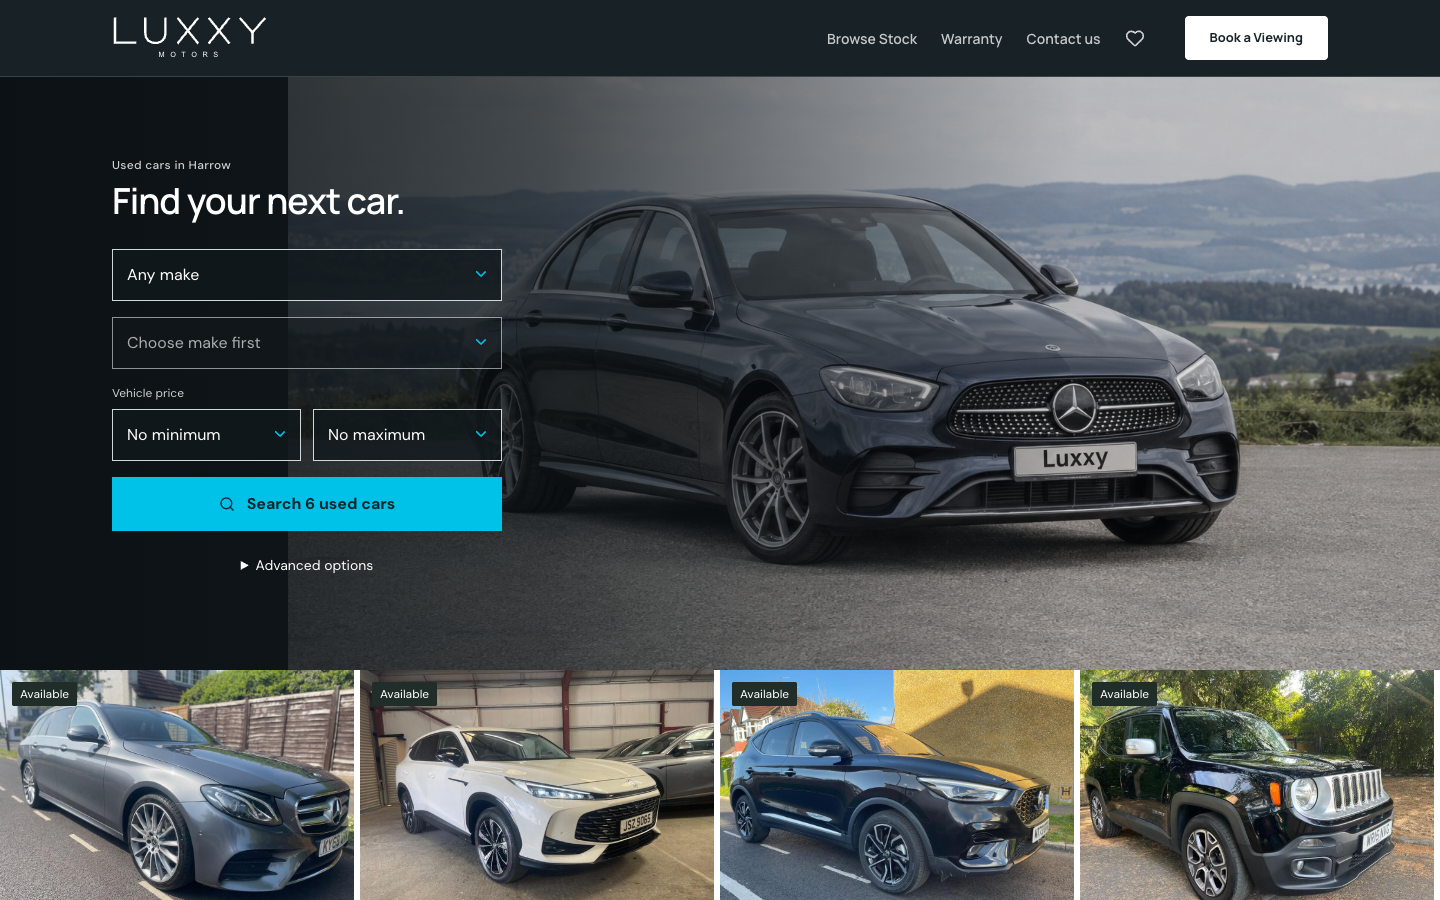
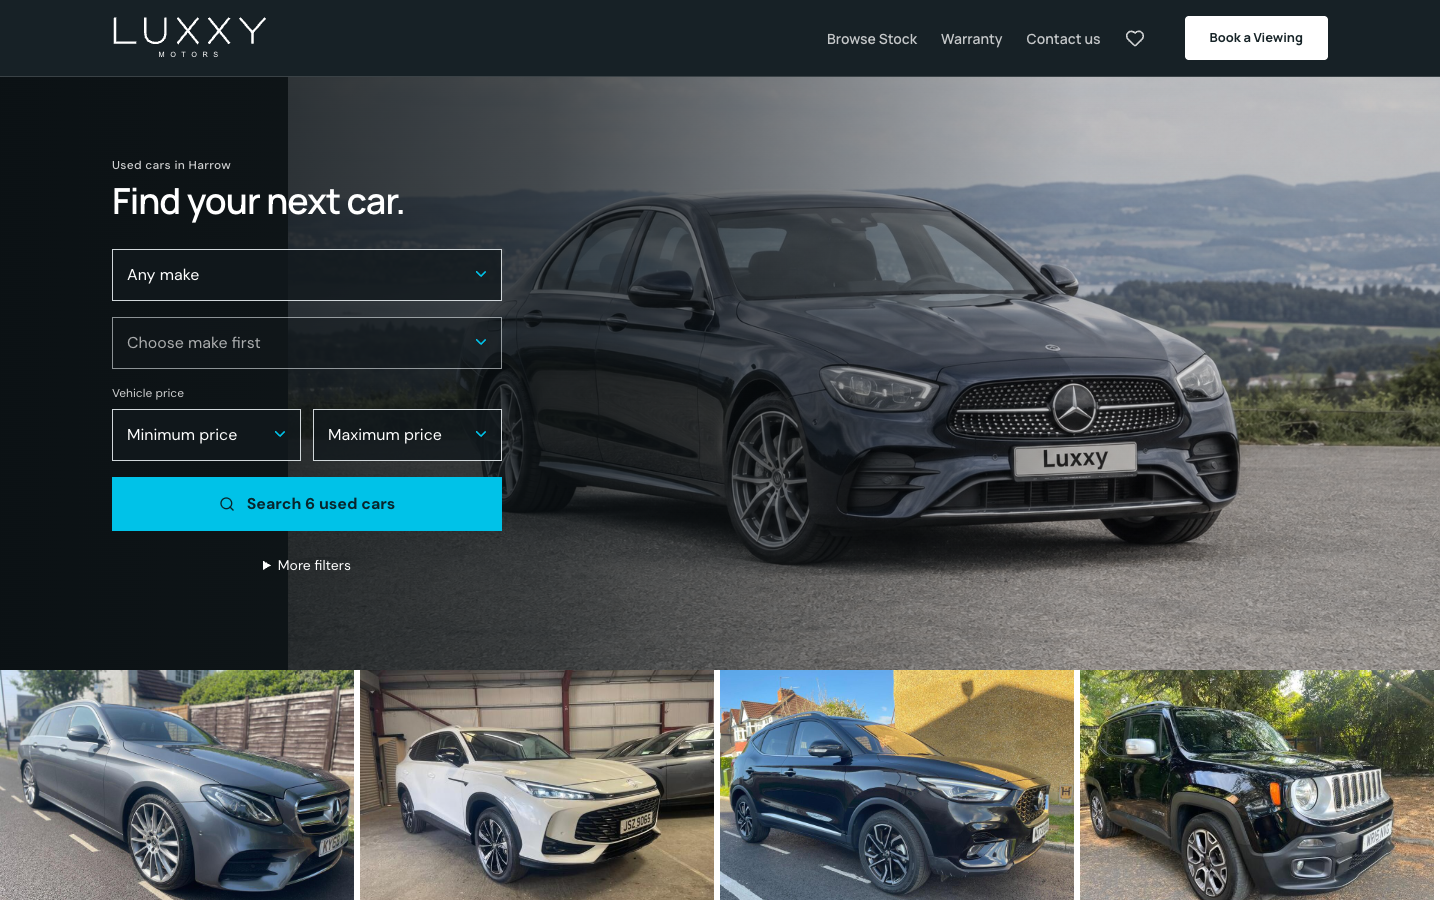
Refine homepage search, featured cars and dealership visit

diff --git a/artifacts/luxxy-motors/src/components/hero-stock-search.tsx b/artifacts/luxxy-motors/src/components/hero-stock-search.tsx
@@ -1,3 +1,4 @@
+import { useEffect, useState } from 'react';
 import type { Dispatch, SetStateAction } from 'react';
 import { Search, ChevronDown } from 'lucide-react';
 import type { Car } from '@/lib/stock-context';
@@ -8,14 +9,23 @@ export function HeroStockSearch({ cars, filters, setFilters, onSearch, count }: 
   cars: Car[]; filters: FilterState; setFilters: Dispatch<SetStateAction<FilterState>>;
   onSearch: () => void; count: number;
 }) {
+  const [mobile, setMobile] = useState(() => window.matchMedia?.('(max-width: 639px)').matches ?? false);
+  useEffect(() => {
+    const media = window.matchMedia?.('(max-width: 639px)');
+    if (!media) return;
+    const update = () => setMobile(media.matches);
+    update(); media.addEventListener?.('change', update);
+    return () => media.removeEventListener?.('change', update);
+  }, []);
   const options = (key: 'make' | 'model' | 'fuel' | 'transmission') => Array.from(new Set(cars.filter(car => key !== 'model' || !filters.make || car.make === filters.make).map(car => car[key]).filter((value): value is string => Boolean(value)))).sort();
   const budgets = [1000, 2500, 5000, 7500, 10000, 12500, 15000, 20000, 25000, 30000, 40000, 50000, 75000, 100000, 150000, 250000, 500000];
   const update = (key: keyof FilterState, value: string) => setFilters(current => ({ ...current, [key]: value, ...(key === 'make' ? { model: '' } : {}), ...(key === 'minPrice' && value && current.maxPrice && +value > +current.maxPrice ? { maxPrice: '' } : {}), ...(key === 'maxPrice' && value && current.minPrice && +value < +current.minPrice ? { minPrice: '' } : {}) }));
   const select = (key: 'make' | 'model' | 'fuel' | 'transmission', label: string) => <label className="hero-search-field"><span className="sr-only">Search {label.toLowerCase()}</span><select aria-label={`Search ${label.toLowerCase()}`} value={filters[key]} onChange={event => update(key, event.target.value)} disabled={key === 'model' && !filters.make}><option value="">{key === 'model' && !filters.make ? 'Choose make first' : `Any ${label.toLowerCase()}`}</option>{options(key).map(value => <option key={value} value={value}>{value}</option>)}</select><ChevronDown aria-hidden="true" /></label>;
+  const budget = (key: 'minPrice' | 'maxPrice') => <label key={key} className="hero-search-field"><span className="sr-only">{key === 'minPrice' ? 'Search minimum price' : 'Search maximum price'}</span><select aria-label={key === 'minPrice' ? 'Search minimum price' : 'Search maximum price'} value={filters[key]} onChange={event => update(key, event.target.value)}><option value="">{key === 'minPrice' ? 'Minimum price' : 'Maximum price'}</option>{Array.from(new Set([...budgets, ...(filters[key] ? [+filters[key]] : [])])).sort((a,b) => a-b).map(price => <option key={price} value={price}>{formatPrice(price)}</option>)}</select><ChevronDown aria-hidden="true" /></label>;
   return <form className="hero-stock-search" aria-label="Search used cars" onSubmit={event => { event.preventDefault(); onSearch(); }}>
-    {select('make', 'Make')}{select('model', 'Model')}
-    <fieldset><legend className="mb-2 text-xs text-white/80">Vehicle price</legend><div className="grid grid-cols-2 gap-3">{(['minPrice', 'maxPrice'] as const).map(key => <label key={key} className="hero-search-field"><span className="sr-only">{key === 'minPrice' ? 'Search minimum price' : 'Search maximum price'}</span><select aria-label={key === 'minPrice' ? 'Search minimum price' : 'Search maximum price'} value={filters[key]} onChange={event => update(key, event.target.value)}><option value="">{key === 'minPrice' ? 'No minimum' : 'No maximum'}</option>{Array.from(new Set([...budgets, ...(filters[key] ? [+filters[key]] : [])])).sort((a,b) => a-b).map(price => <option key={price} value={price}>{formatPrice(price)}</option>)}</select><ChevronDown aria-hidden="true" /></label>)}</div></fieldset>
+    {select('make', 'Make')}{!mobile && select('model', 'Model')}
+    {mobile ? budget('maxPrice') : <fieldset><legend className="mb-2 text-xs text-white/80">Vehicle price</legend><div className="grid grid-cols-2 gap-3">{budget('minPrice')}{budget('maxPrice')}</div></fieldset>}
     <button type="submit" className="hero-search-submit"><Search aria-hidden="true" className="h-4 w-4" />Search {count} used {count === 1 ? 'car' : 'cars'}</button>
-    <details className="hero-search-advanced"><summary>Advanced options</summary><div className="mt-3 grid gap-3">{select('fuel', 'Fuel')}{select('transmission', 'Transmission')}</div></details>
+    <details className="hero-search-advanced"><summary>More filters</summary><div className="mt-3 grid gap-3">{mobile && <>{select('model', 'Model')}{budget('minPrice')}</>}{select('fuel', 'Fuel')}{select('transmission', 'Transmission')}</div></details>
   </form>;
 }

diff --git a/artifacts/luxxy-motors/src/pages/home.tsx b/artifacts/luxxy-motors/src/pages/home.tsx
@@ -4,8 +4,6 @@ import { HeroStockSearch } from '@/components/hero-stock-search';
 import { RecentlyViewed } from '@/components/recently-viewed';
 import { DealershipVisit } from "@/components/dealership-visit";
 import { ShowroomPhoto } from "@/components/showroom-photo";
-import { DealershipPhotograph } from '@/components/dealership-photograph';
-import { dealershipPhotography } from '@/lib/dealership-photography';
 import luxxyHeroImage from "@/assets/luxxy-hero.jpg";
 import {
   readBrowseSession,
@@ -277,8 +275,6 @@ export default function Home({ browseStock = false }: { browseStock?: boolean })
       : vehicleDisplayTitle(heroFallbackCar);
 
   const heroPhotoSource = heroImage || getThumbnailUrl(heroFallbackCar);
-  const introductionPhoto = dealershipPhotography(dealerConfig).introduction;
-  const introductionImage = introductionPhoto?.src || heroPhotoSource;
 
   const dealershipPoints = dealerConfig.whyBuy?.length ? (
     <ul className="divide-y divide-border border-y border-border">
@@ -308,7 +304,7 @@ export default function Home({ browseStock = false }: { browseStock?: boolean })
     );
 
   return (
-    <div className="luxxy-shell min-h-screen">
+    <div className={browseStock ? "luxxy-shell min-h-screen" : "luxxy-shell homepage-refined min-h-screen"}>
       {!browseStock && <section className="stock-search-hero" aria-labelledby="home-heading">
         {heroPhotoSource && <div className="stock-search-backdrop" data-testid="showroom-hero-photo"><ShowroomPhoto src={heroPhotoSource} alt={heroAlt} priority fit="cover" className="h-full" /></div>}
         <div className="stock-search-shade" aria-hidden="true" />
@@ -534,41 +530,7 @@ export default function Home({ browseStock = false }: { browseStock?: boolean })
         </section>
       )}
 
-      {(dealerConfig.presentation?.showroomImageUrl || dealerConfig.whyBuy?.length > 0 || dealerConfig.trustItems?.length > 0) && (
-        <section
-          id="about"
-          data-home-section
-          aria-labelledby="about-heading"
-          className="section-space border-t border-border bg-card"
-        >
-          <div className={cn("container mx-auto grid gap-6 px-4 sm:px-6 lg:gap-x-12 lg:px-8", introductionImage ? "lg:grid-cols-[1.1fr_1fr]" : "lg:grid-cols-2")}>
-            <div className={introductionImage ? "lg:col-start-2" : undefined}>
-              <p className="luxxy-kicker mb-3">Why {dealerConfig.identity.name}</p>
-              <h2 id="about-heading" tabIndex={-1} className="heading-2">Come and see for yourself.</h2>
-              <p className="mt-3 max-w-md text-sm leading-relaxed text-muted-foreground">
-                {dealerConfig.address?.city ? `Visit us in ${dealerConfig.address.city}` : "Visit the showroom"}
-                {" to see the car and talk through the details."}
-              </p>
-            </div>
-            {introductionPhoto ? (
-              <DealershipPhotograph photo={introductionPhoto} className="lg:col-start-1 lg:row-start-1 lg:row-span-2 lg:self-center" />
-            ) : introductionImage && (
-              <ShowroomPhoto
-                src={introductionImage}
-                alt={heroAlt}
-                fit="contain"
-                className="aspect-[3/2] lg:col-start-1 lg:row-start-1 lg:row-span-2 lg:self-center"
-              />
-            )}
-            <div className={introductionImage ? "lg:col-start-2" : undefined}>
-              {dealershipPoints}
-              <Link href="/enquire?type=viewing" className="text-link mt-4 min-h-11">
-                Arrange a viewing <ArrowRight className="h-4 w-4" />
-              </Link>
-            </div>
-          </div>
-        </section>
-      )}
+      <DealershipVisit>{dealershipPoints}</DealershipVisit>
 
       <section className="section-space border-t border-border bg-secondary/40">
         <div className="container mx-auto px-4 sm:px-6 lg:px-8">
@@ -600,7 +562,7 @@ export default function Home({ browseStock = false }: { browseStock?: boolean })
                       tabIndex={-1}
                       className="font-display text-xl font-semibold leading-snug"
                     >
-                      {service.title}
+                      {id === 'part-exchange' ? 'Part exchange' : id === 'delivery' ? 'Delivery' : 'Warranty'}
                     </h3>
                     <p className="mt-3 flex-1 text-sm leading-relaxed text-muted-foreground">
                       {service.description}
@@ -619,7 +581,7 @@ export default function Home({ browseStock = false }: { browseStock?: boolean })
           </div>
         </div>
       </section>
-      <DealershipVisit />
+
       </>}
       <RecentlyViewed />
     </div>

diff --git a/artifacts/luxxy-motors/src/pages/home.test.tsx b/artifacts/luxxy-motors/src/pages/home.test.tsx
@@ -268,8 +268,8 @@ describe('showroom search filters', () => {
     expect(hero.textContent).toBe('');
     expect(hero).not.toHaveTextContent('£');
     expect(within(hero).getByRole('img')).toHaveAttribute('alt', expect.stringContaining('Illustrative Luxxy brand image'));
-    const introduction = screen.getByRole('region', { name: 'Come and see for yourself.' });
-    expect(within(introduction).getByRole('img')).toHaveAttribute('src', expect.stringContaining('luxxy-showroom.jpg'));
+    const introduction = screen.getByRole('region', { name: 'Plan your visit' });
+    expect(within(introduction).getByRole('img')).toHaveAttribute('src', expect.stringContaining('luxxy-forecourt.jpg'));
     expect(within(introduction).getByRole('img')).toHaveAttribute('alt', expect.stringContaining('Illustrative Luxxy Motors showroom'));
   });
 
@@ -279,7 +279,7 @@ describe('showroom search filters', () => {
     expect(hero).not.toHaveTextContent('BMW 1 Series');
     expect(hero).not.toHaveTextContent('£');
     expect(within(hero).getByRole('img')).toHaveAttribute('src', 'https://cdn.example.com/bmw-1.jpg');
-    expect(within(screen.getByRole('region', { name: 'Come and see for yourself.' })).getByRole('img')).toHaveAttribute('src', 'https://cdn.example.com/bmw-1.jpg');
+    expect(within(screen.getByRole('region', { name: 'Plan your visit' })).queryByRole('img')).not.toBeInTheDocument();
   });
 
   it('keeps the bundled Luxxy artwork independent of featured stock', () => {
@@ -315,7 +315,7 @@ describe('showroom search filters', () => {
       },
     };
     renderHome(false);
-    const introduction = screen.getByRole('region', { name: 'Come and see for yourself.' });
+    const introduction = screen.getByRole('region', { name: 'Plan your visit' });
     expect(within(introduction).getByRole('img')).toHaveAttribute('src', 'https://example.com/team.jpg');
     expect(within(introduction).getByRole('img')).toHaveAttribute('alt', 'Our team outside the dealership');
     expect(within(introduction).getByRole('heading', { name: 'How we work' })).toBeInTheDocument();
@@ -379,7 +379,7 @@ describe('showroom search filters', () => {
   it('keeps the homepage carousel separate from stock filters', () => {
     renderHome(false);
     expect(screen.getByRole('heading', { name: /Find your next car/i })).toBeInTheDocument();
-    expect(screen.getByRole('heading', { name: 'Latest arrivals' })).toBeInTheDocument();
+    expect(screen.getByRole('heading', { name: 'Featured cars' })).toBeInTheDocument();
     expect(screen.queryByTestId('input-showroom-search')).not.toBeInTheDocument();
     expect(screen.getByRole('link', { name: 'Browse Stock' })).toHaveAttribute('href', '/stock');
     fireEvent.click(screen.getByRole('button', { name: 'Pause cars' }));

diff --git a/artifacts/luxxy-motors/src/components/dealership-visit.tsx b/artifacts/luxxy-motors/src/components/dealership-visit.tsx
@@ -7,13 +7,14 @@ import { ShowroomPhoto } from "./showroom-photo";
 import { DealershipPhotograph } from './dealership-photograph';
 import { dealershipPhotography } from '@/lib/dealership-photography';
 
-export function DealershipVisit() {
+export function DealershipVisit({ children }: { children?: React.ReactNode }) {
   const { settings } = useDealerSettings();
   const { address, contact, hours, presentation: content = {} } = settings;
-  const visitPhoto = dealershipPhotography(settings).visit;
+  const photography = dealershipPhotography(settings);
+  const visitPhoto = photography.visit || photography.introduction;
+  const hasTeam = Boolean(content.teamImageUrl && content.teamIntroduction?.trim() && !/^sample|tell customers|replace this/i.test(content.teamIntroduction.trim()));
   const hasStory = Boolean(
-    content.teamImageUrl ||
-    content.teamIntroduction ||
+    hasTeam ||
     content.reviewsUrl,
   );
   const addressLines = [
@@ -28,12 +29,12 @@ export function DealershipVisit() {
       className="border-t border-border bg-card py-8 md:py-10"
       aria-labelledby="visit-heading"
     >
-      <div className="container mx-auto px-4 sm:px-6 lg:px-8">
+      <div id="about" className="container mx-auto px-4 sm:px-6 lg:px-8">
         <div
-          className={`grid items-start gap-6 lg:gap-10 ${content.teamImageUrl || visitPhoto ? "lg:grid-cols-2" : "max-w-4xl"}`}
+          className={`grid items-start gap-6 lg:gap-10 ${hasStory || visitPhoto || children ? "lg:grid-cols-2" : "max-w-4xl"}`}
         >
           <div>
-            <h2 id="visit-heading" className="section-heading">
+            <h2 id="visit-heading" tabIndex={-1} className="section-heading">
               Plan your visit
             </h2>
             <p className="mt-4 max-w-lg whitespace-pre-line text-sm leading-7 text-muted-foreground">
@@ -107,10 +108,11 @@ export function DealershipVisit() {
               )}
             </div>
           </div>
-          {(hasStory || visitPhoto) && (
-            <div className={content.teamImageUrl || visitPhoto ? "space-y-6" : "grid gap-6 sm:grid-cols-2"}>
+          {(hasStory || visitPhoto || children) && (
+            <div className={hasStory || visitPhoto || children ? "space-y-6" : "grid gap-6 sm:grid-cols-2"}>
               {visitPhoto && <DealershipPhotograph photo={visitPhoto} />}
-              {(content.teamIntroduction || content.teamImageUrl) && (
+              {children}
+              {hasTeam && (
                 <div className="border-t border-border pt-5">
                   {content.teamImageUrl && (
                     <ShowroomPhoto

diff --git a/artifacts/luxxy-motors/tests/homepage-hero.spec.ts b/artifacts/luxxy-motors/tests/homepage-hero.spec.ts
@@ -20,6 +20,7 @@ for (const width of [390, 1440]) {
     await expect.poll(() => page.evaluate(() => window.scrollY)).toBe(0);
     await page.screenshot({path: '/tmp/luxxy-rolling-' + width + '.png', fullPage: true, animations: 'disabled'});
 
+    if (width === 390) await hero.getByText('More filters', { exact: true }).click();
     await expect(hero.getByRole('combobox', { name: 'Search model', exact: true })).toBeDisabled();
     await expect(page.getByTestId('showroom-hero-photo').locator('img')).toHaveJSProperty('complete', true);
     await expect(page.getByRole('button', { name: /^Search \d+ used cars$/ })).toBeVisible();
@@ -42,7 +43,7 @@ for (const width of [390, 1440]) {
 
     await page.goto('/');
     await hero.getByRole('combobox', { name: 'Search maximum price', exact: true }).selectOption('');
-    await hero.getByText('Advanced options', { exact: true }).click();
+    await hero.getByText('More filters', { exact: true }).click();
     await hero.getByRole('combobox', { name: 'Search transmission', exact: true }).selectOption('Automatic');
     await hero.getByRole('button', { name: /^Search/ }).click();
     await expect(page.locator('[data-testid^="card-vehicle-"]').first()).toBeVisible();
@@ -74,4 +75,22 @@ test('rolling cars move left, pause and respect reduced motion', async ({ page }
   await page.goto('/#stock');
   await expect(page).toHaveURL(/\/stock(?:\?.*)?$/);
   await expect(page.getByRole('heading', {name: 'Browse Stock'})).toBeVisible();
+});
+
+test('homepage has one visit section and a clickable featured price panel', async ({ page }) => {
+  await page.setViewportSize({ width: 390, height: 844 });
+  await page.goto('/');
+  const hero = page.getByRole('form', { name: 'Search used cars' });
+  await expect(hero.getByRole('combobox')).toHaveCount(2);
+  await expect(page.getByRole('heading', { name: 'Plan your visit' })).toHaveCount(1);
+  await expect(page.getByRole('heading', { name: 'Meet the team' })).toHaveCount(0);
+  await expect(page.getByRole('heading', { name: 'Featured cars' })).toBeVisible();
+  await page.getByRole('button', { name: 'Pause cars' }).click();
+  const card = page.locator('.rolling-stock-group').first().locator('article').first();
+  await expect(card.getByText('Available', { exact: true })).toHaveCount(0);
+  const link = card.locator('h3 a');
+  const href = await link.getAttribute('href');
+  const bounds = await card.boundingBox();
+  await page.mouse.click(bounds!.x + bounds!.width / 2, bounds!.y + bounds!.height - 12);
+  await expect(page).toHaveURL(new RegExp(href! + '$'));
 });

diff --git a/artifacts/luxxy-motors/src/components/rolling-stock.tsx b/artifacts/luxxy-motors/src/components/rolling-stock.tsx
@@ -22,14 +22,14 @@ export function RollingStock({ cars, unavailable = false }: { cars: Car[]; unava
     return () => window.clearInterval(timer);
   }, [paused, cars.length]);
   return <section className="rolling-stock homepage-stock" aria-labelledby="rolling-stock-heading">
-    {cars.length ? <div ref={viewport} className="rolling-stock-window" tabIndex={0} aria-label="Latest vehicles; pause to browse" data-paused={paused || cars.length <= 1}>
+    {cars.length ? <div ref={viewport} className="rolling-stock-window" tabIndex={0} aria-label="Featured vehicles; pause to browse" data-paused={paused || cars.length <= 1}>
       <div className="rolling-stock-track">
         <div className="rolling-stock-group">{cars.map(car => <CarCard key={car.id} car={car} photoControls={false} stretchedLink />)}</div>
         {cars.length > 1 && <div className="rolling-stock-group rolling-stock-copy" aria-hidden="true" ref={node => { node?.querySelectorAll<HTMLElement>('a, button, [tabindex]').forEach(element => { element.tabIndex = -1; }); }}>{cars.map(car => <CarCard key={car.id} car={car} photoControls={false} stretchedLink />)}</div>}
       </div>
     </div> : <p className="container mx-auto px-4 text-muted-foreground">{unavailable ? 'Stock is temporarily unavailable. Please contact the team for current availability.' : 'No vehicles currently listed. Contact the team about upcoming stock.'}</p>}
     <div className="container mx-auto py-4 flex flex-wrap items-center justify-between gap-3 px-4 sm:px-6 lg:px-8">
-      <h2 id="rolling-stock-heading" className="section-heading">Latest arrivals</h2>
+      <h2 id="rolling-stock-heading" className="section-heading">Featured cars</h2>
       <div className="flex items-center gap-4">
         {cars.length > 1 && <button className="rolling-stock-toggle text-link min-h-11 text-sm" type="button" onClick={() => setPaused(!paused)} aria-pressed={paused}>{paused ? <Play className="h-4 w-4" aria-hidden="true" /> : <Pause className="h-4 w-4" aria-hidden="true" />}{paused ? 'Resume cars' : 'Pause cars'}</button>}
         <Link href="/stock" className="text-link min-h-11 text-sm">Browse Stock <ArrowRight className="h-4 w-4" aria-hidden="true" /></Link>

diff --git a/artifacts/luxxy-motors/src/components/car-card.tsx b/artifacts/luxxy-motors/src/components/car-card.tsx
@@ -96,7 +96,7 @@ export function CarCard({
   return (
     <article
       className={cn(
-        'vehicle-card group flex',
+        'vehicle-card group flex relative',
         isRow
           ? 'flex-col md:flex-row'
           : isCompact
@@ -174,7 +174,7 @@ export function CarCard({
             {galleryUrls.length > 1 ? `${activeIndex + 1} / ${galleryUrls.length}` : photoCount}
           </span>
         )}
-        {displayBadges.length > 0 && (
+        {displayBadges.length > 0 && (photoControls || displayBadges[0] !== 'Available') && (
           <span className="absolute left-3 top-3 max-w-[70%] rounded-sm bg-primary px-2 py-1 text-xs text-primary-foreground">
             {displayBadges[0]}
           </span>
@@ -192,7 +192,7 @@ export function CarCard({
               <Link
                 href={detailHref}
                 onClick={recordVehicleOpen}
-                className="hover:underline underline-offset-4"
+                className={cn("hover:underline underline-offset-4", stretchedLink && !photoControls && "after:absolute after:inset-0 after:z-10 focus-visible:after:outline focus-visible:after:outline-2 focus-visible:after:outline-ring")}
               >
                 {vehicleLabel}
               </Link>

diff --git a/artifacts/luxxy-motors/src/index.css b/artifacts/luxxy-motors/src/index.css
@@ -407,3 +407,11 @@
  .vehicle-details-content > * { margin-top: 0; }
  .vehicle-details-content > :first-child { grid-column: 1 / -1; }
 }
+
+/* Homepage accent system: cyan controls, charcoal secondary actions. */
+body:has(.homepage-refined) header,
+body:has(.homepage-refined) footer,
+.homepage-refined { --accent: 190 100% 45%; --accent-foreground: 194 64% 9%; --ring: 190 100% 32%; }
+.homepage-refined .luxxy-kicker { color: hsl(var(--foreground)); }
+.homepage-refined .text-link { color: hsl(var(--foreground)); }
+.homepage-refined .text-link:hover { text-decoration: underline; text-decoration-color: #00c2e8; text-underline-offset: 5px; }

diff --git a/artifacts/luxxy-motors/src/lib/home-navigation.ts b/artifacts/luxxy-motors/src/lib/home-navigation.ts
@@ -5,7 +5,7 @@ let pendingTarget: string | null = null;
 const homeTargetFocusIds: Record<string, string> = {
   top: 'home-heading',
   stock: 'vehicle-results-heading',
-  about: 'about-heading',
+  about: 'visit-heading',
   warranty: 'warranty-heading',
   'part-exchange': 'part-exchange-heading',
   delivery: 'delivery-heading',

diff --git a/docs/ui-redesign.md b/docs/ui-redesign.md
@@ -660,3 +660,15 @@ Validation: 172 frontend tests, workspace typechecks/build, four vehicle/gallery
 
 ### Smooth vehicle photo changes
 Added a 320ms crossfade with a subtle 2.5% settling zoom to the main and fullscreen gallery images. Thumbnail controls remain immediate. Reduced-motion preference disables the transition. Workspace typechecking/build and three gallery browser checks at 320px, 390px and 1440px passed.
+
+
+## Homepage refinement — 25 September 2026
+- Renamed the rolling stock strip Featured cars; removed routine Available badges while keeping meaningful vehicle statuses.
+- Made the entire featured card clickable, including the price panel, with a visible keyboard focus outline.
+- Reduced mobile hero search to make and maximum price. Model, minimum price, fuel and transmission remain available under More filters; desktop retains its fuller search.
+- Unified homepage, header and footer accent colours around cyan with charcoal secondary actions.
+- Combined the dealership introduction and visiting information into one Plan your visit section, retaining configured showroom photography and dealer points.
+- Standardised service headings to Warranty, Part exchange and Delivery.
+- Hid incomplete team introductions unless both an image and non-placeholder introduction exist. Sample visiting details remain clearly labelled.
+- Updated the About navigation focus target to the merged visit heading.
+- Validation: 172 frontend tests passed; workspace typechecking and builds passed (existing bundle-size advisory remains). Four local Playwright checks passed, covering desktop/mobile search, navigation, carousel/reduced motion and full-card interaction. Full-page desktop/mobile screenshots reviewed.
